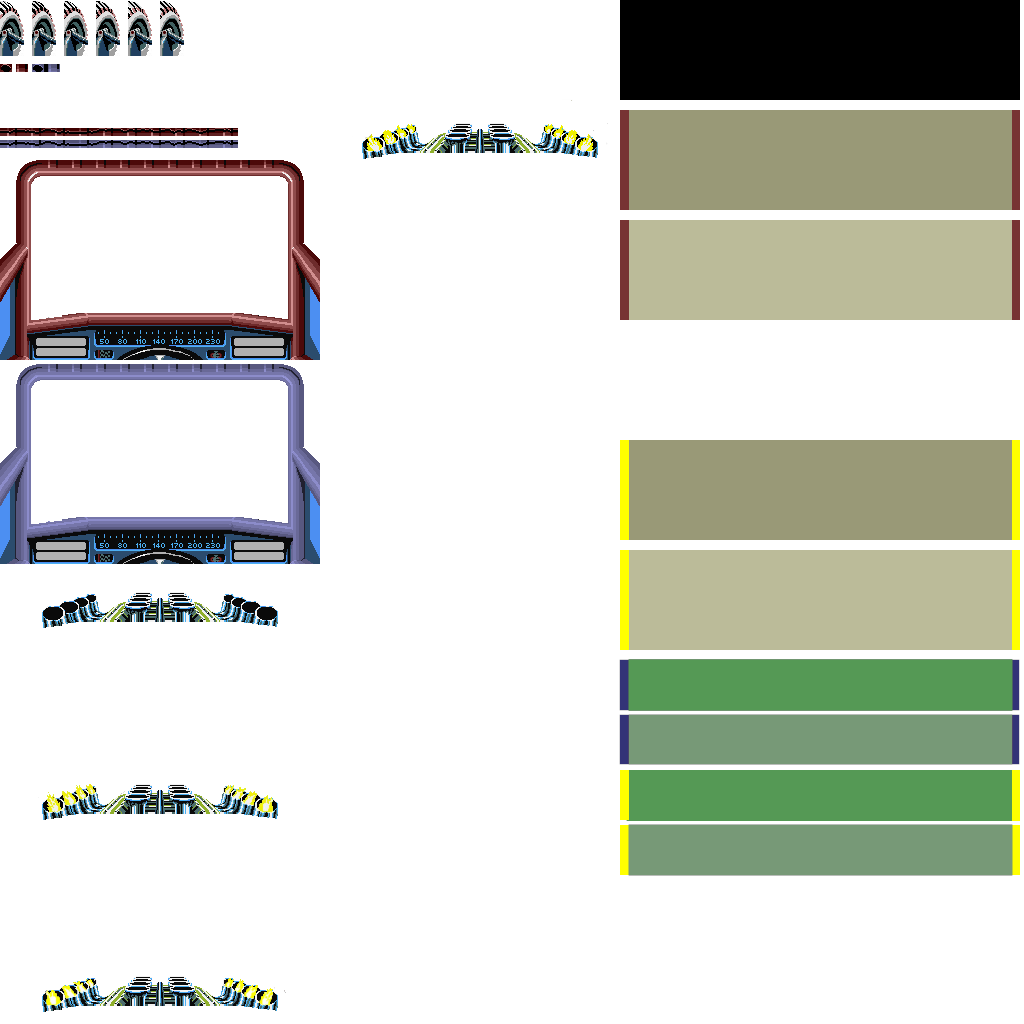
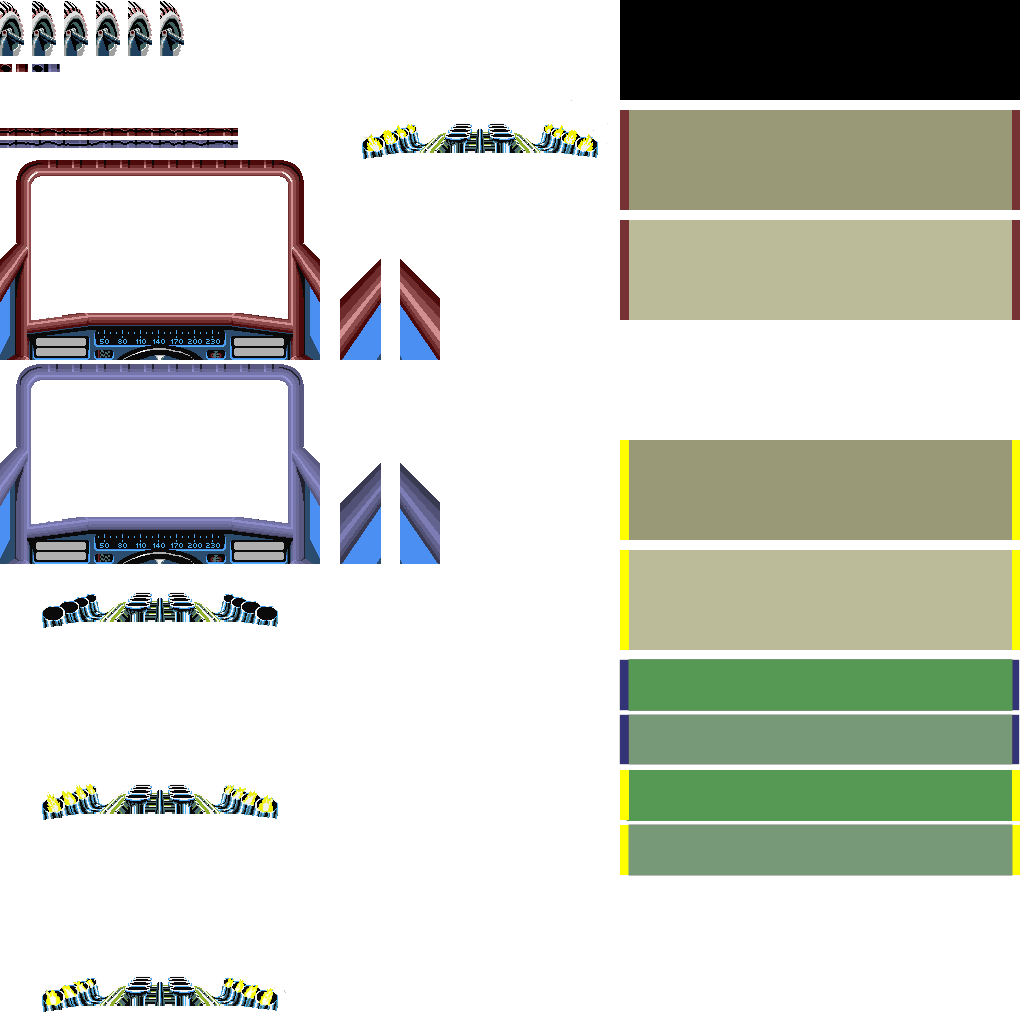
Added Widescreen bitmap to Atlas

Changed region(s): [[0.3125, 0.4375, 0.4375, 0.5625], [0.3125, 0.25, 0.4375, 0.375]]

diff --git a/Atlas.cpp b/Atlas.cpp
@@ -11,8 +11,10 @@ void InitAtlasCoord() {
         160, 128, 96, 64, 32, 0,    //eWheel
         0, 16, 0,  //eHole, eNotHole, eCracking
         41, 0, 279, 0, // eCockpit
+        340, 400,   // eCockpitWL, eCockpitWR,
         32, 48, 0,  //eHole2, eNotHole2, eCracking2
         41, 0, 279, 0, // eCockpit2
+        340, 400,   // eCockpitWL2, eCockpitWR2,
         42, 42, 42, 362, // eEgines...
         620, 620, 620, 620 ,// eRoad...
         620, 620,           // eRoad Black / White
@@ -22,8 +24,10 @@ void InitAtlasCoord() {
         0, 0, 0, 0, 0, 0,    //eWheel
         64, 64, 128,
         160, 160, 160, 313,
+        259, 259,
         64, 64, 140,
         364, 364, 364, 517,
+        463, 463,
         592, 784, 976, 123,
         441, 551, 111, 221, 
         1, 331,
@@ -33,8 +37,10 @@ void InitAtlasCoord() {
         24, 24, 24, 24, 24, 24,
         12, 12, 238,
         238, 41, 41, 320,
+        40, 40,
         12, 12, 238,
         238, 41, 41, 320,
+        40, 40,
         235, 235 ,235, 235,
         400, 400, 400, 400,
         400, 400, 400, 400,
@@ -44,8 +50,10 @@ void InitAtlasCoord() {
         56, 56, 56, 56, 56, 56,
         8, 8, 8,
         16, 153, 153, 47,
+        101, 101,
         8, 8, 8,
         16, 153, 153, 47,
+        101, 101,
         35, 35 ,35, 35,
         98, 98, 98, 98,
         98, 98,

diff --git a/Atlas.h b/Atlas.h
@@ -15,6 +15,8 @@ enum eAtlas {
     eCockpitLeft,
     eCockpitRight,
     eCockpitBottom,
+    eCockpitWL,
+    eCockputWR,
     eHole2,
     eNoHole2,
     eCracking2,
@@ -22,6 +24,8 @@ enum eAtlas {
     eCockpitLeft2,
     eCockpitRight2,
     eCockpitBottom2,
+    eCockpitWL2,
+    eCockputWR2,
     eEngine,
     eEngineFlames0,
     eEngineFlames1,
